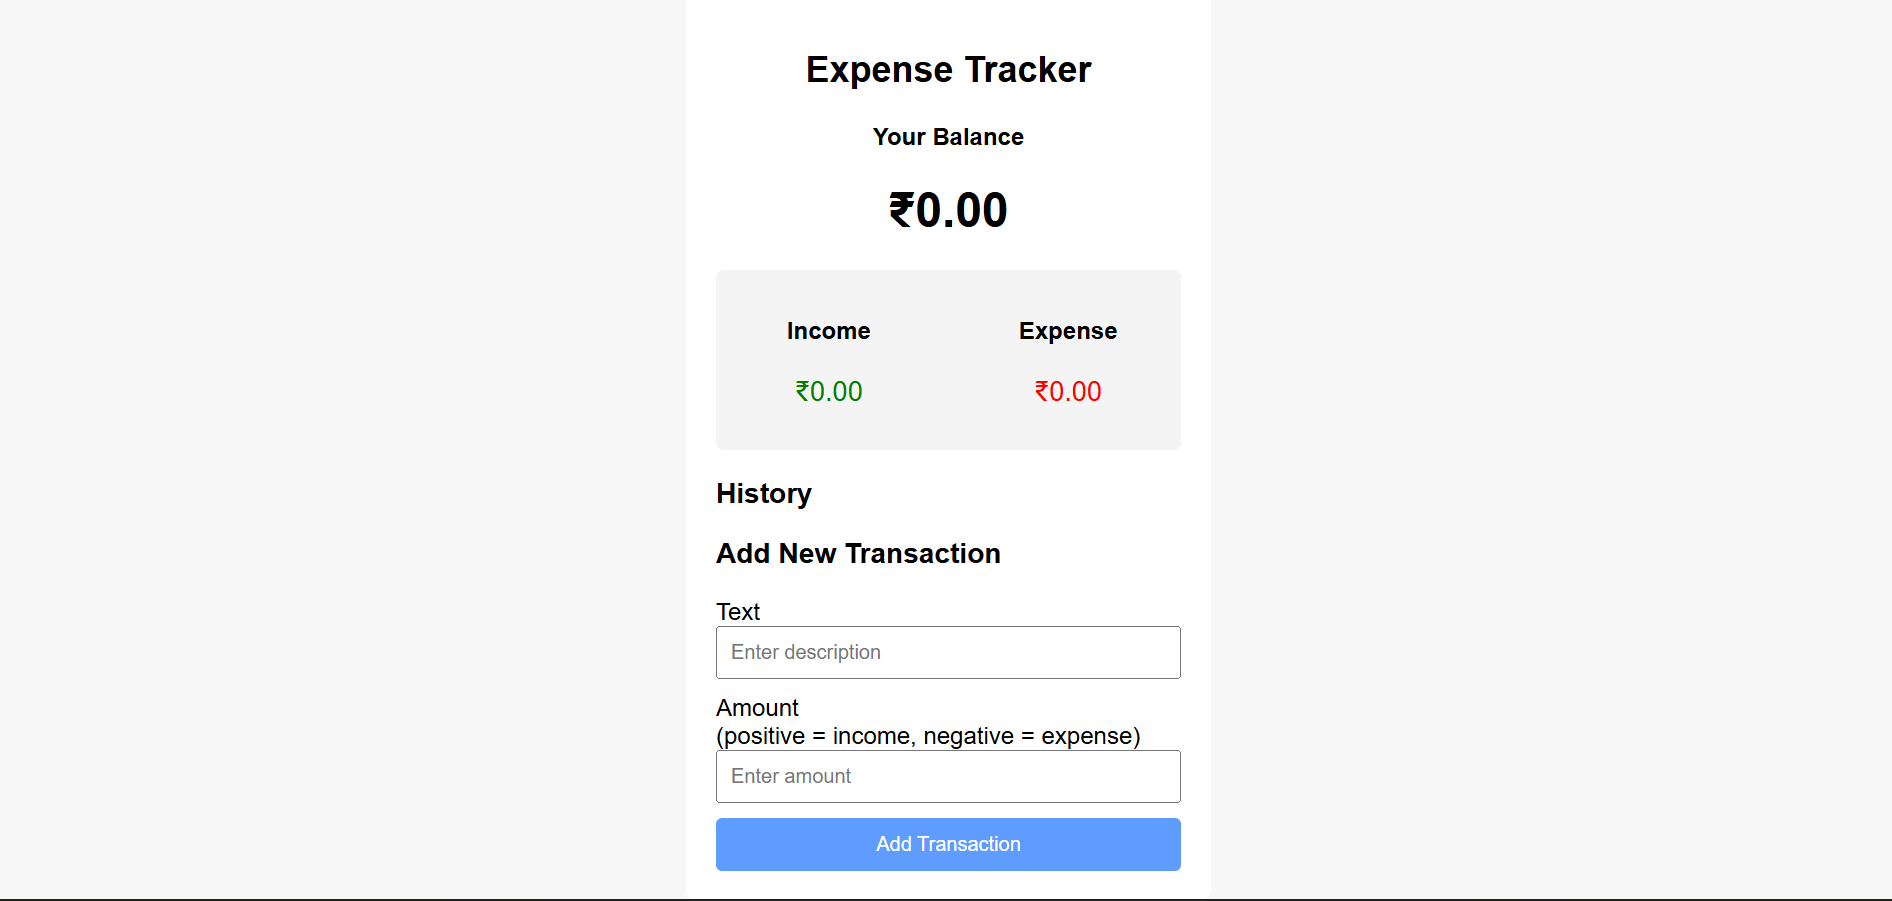
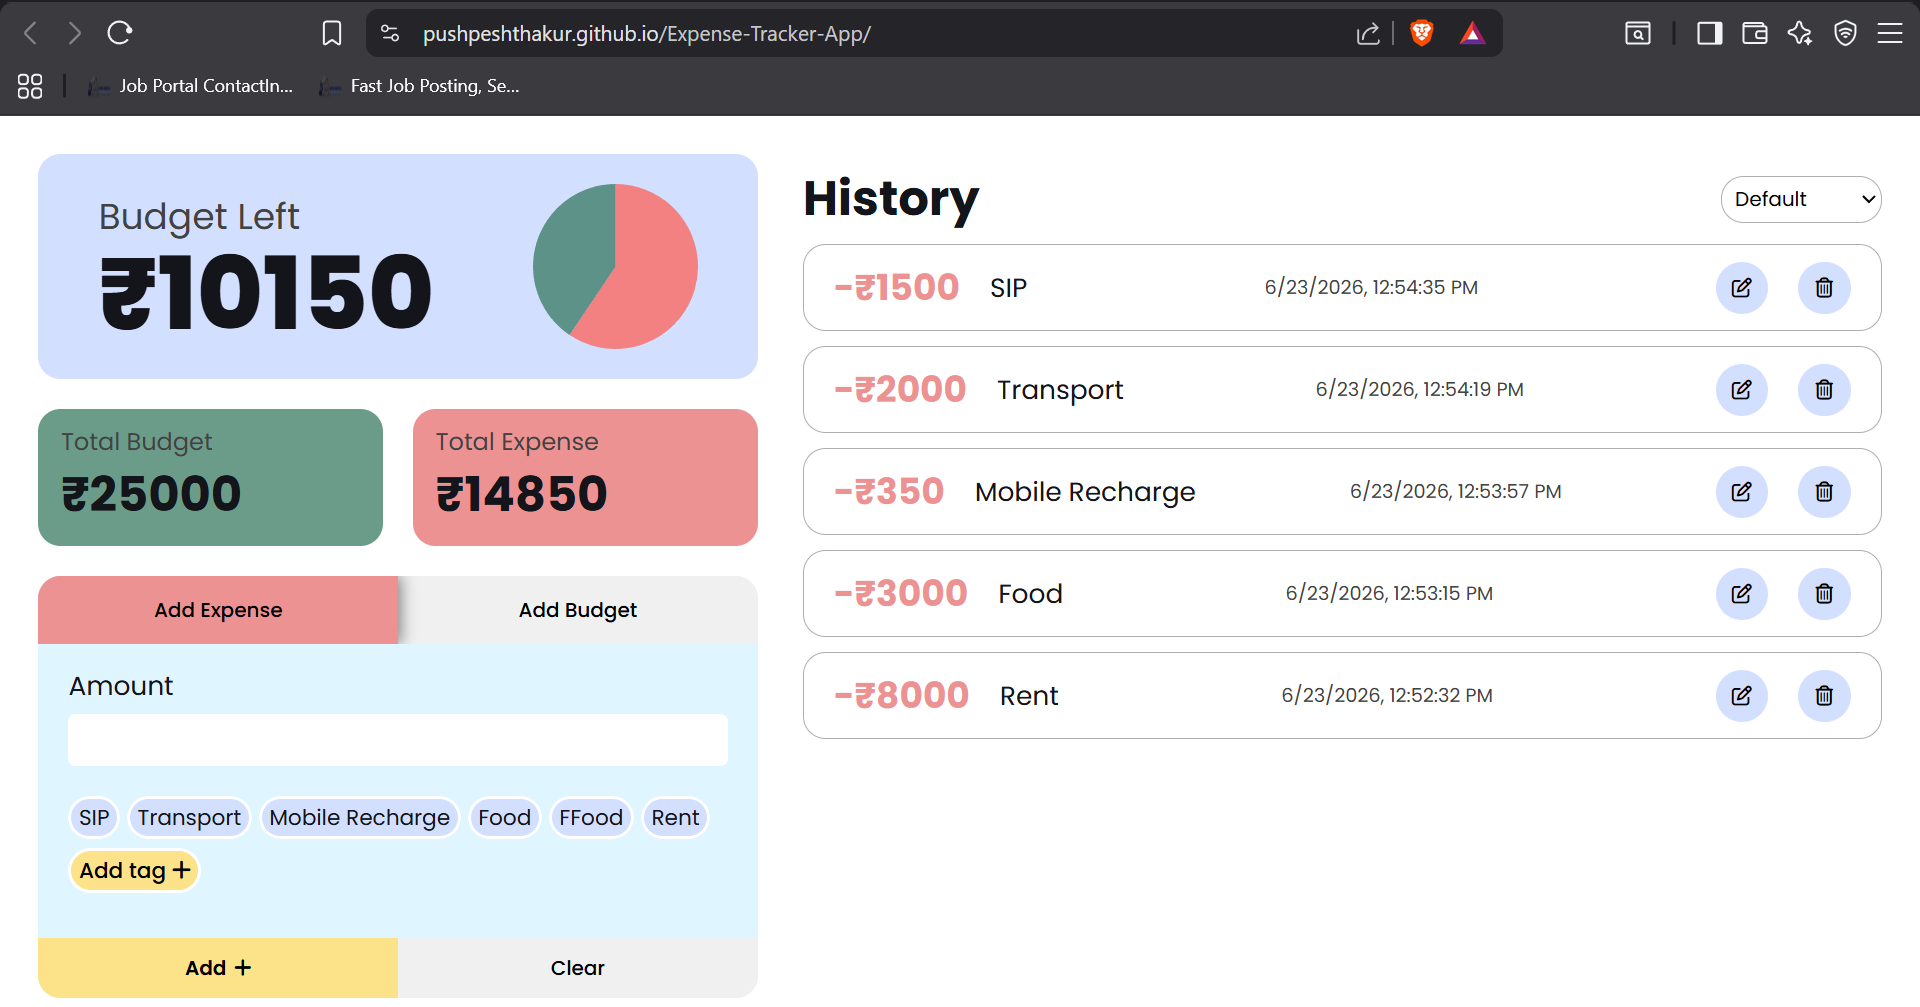
Live demo and github link added

diff --git a/index.html b/index.html
@@ -167,7 +167,7 @@
                     <img src="ems.png" alt="">
                     <div class="project-overlay">
                             <div class="project-buttons">
-                                <a href="###" class="live-btn">Live Demo</a>
+                                <a href="https://pushpeshthakur.github.io/ems/" class="live-btn">Live Demo</a>
                                 <a href="https://github.com/pushpeshthakur/ems" class="github-btn">GitHub</a>
                             </div>
                         </div>
@@ -183,8 +183,8 @@
                     <img src="ExpenseTracker.png" alt="">
                     <div class="project-overlay">
                             <div class="project-buttons">
-                                <a href="https://pushpeshthakur.github.io/Expanse-Tracker/" class="live-btn">Live Demo</a>
-                                <a href="https://github.com/pushpeshthakur/Expanse-Tracker" class="github-btn">GitHub</a>
+                                <a href="https://pushpeshthakur.github.io/Expense-Tracker-App/" class="live-btn">Live Demo</a>
+                                <a href="https://github.com/pushpeshthakur/Expense-Tracker-App" class="github-btn">GitHub</a>
                             </div>
                         </div>
 
@@ -201,12 +201,14 @@
             <div id="contact">
                 <h2 class="heading">Contact</h2>
                 <div class="line"></div>
-                <form id="contact-form">
-                    <input type="text" id="name" name="name" placeholder="Your Name" required>
-                    <input type="email" id="email" name="email" placeholder="Your Email" required>
-                    <textarea id="message" name="message" placeholder="Your Message" required></textarea>
+                <div class="contact-container">
+                    <form id="contact-form">
+                    <input type="text" class="cont-info" name="name" placeholder="Your Name" required>
+                    <input type="email" class="cont-info" name="email" placeholder="Your Email" required>
+                    <textarea class="cont-info" name="message" placeholder="Your Message" required></textarea>
                     <button type="submit">Send</button>
                 </form>
+                </div>
             </div>
 
         </div>

diff --git a/style.css b/style.css
@@ -291,6 +291,10 @@ nav a:hover{
     color:brown
 }
 
+/* contact  */
+
+
+
 
 
 
